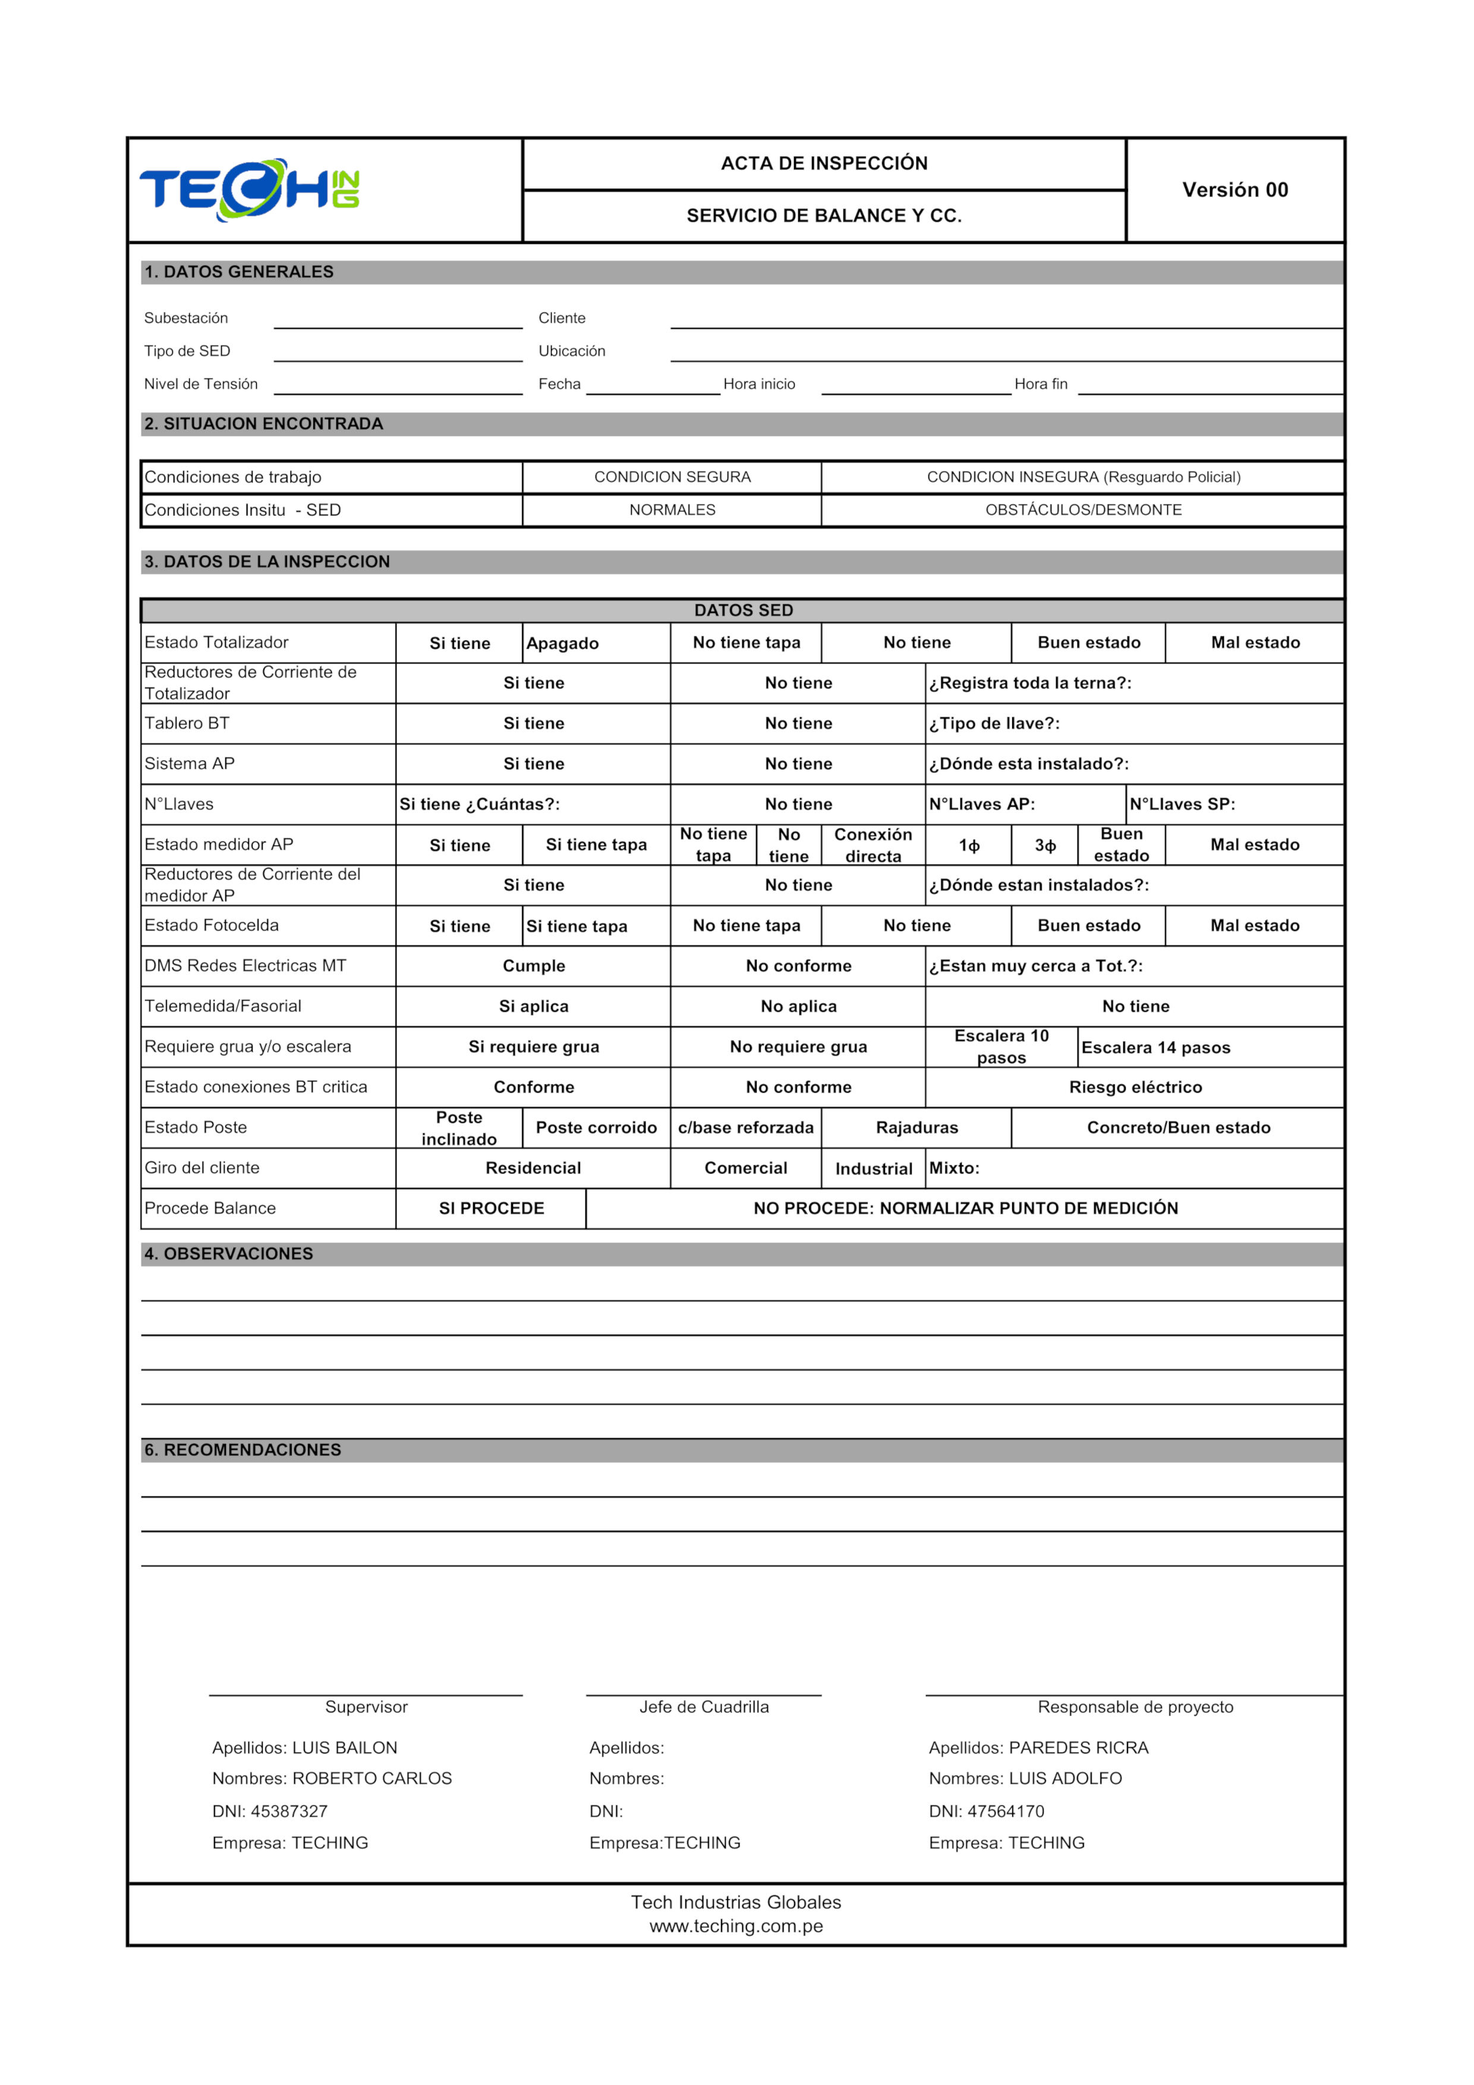
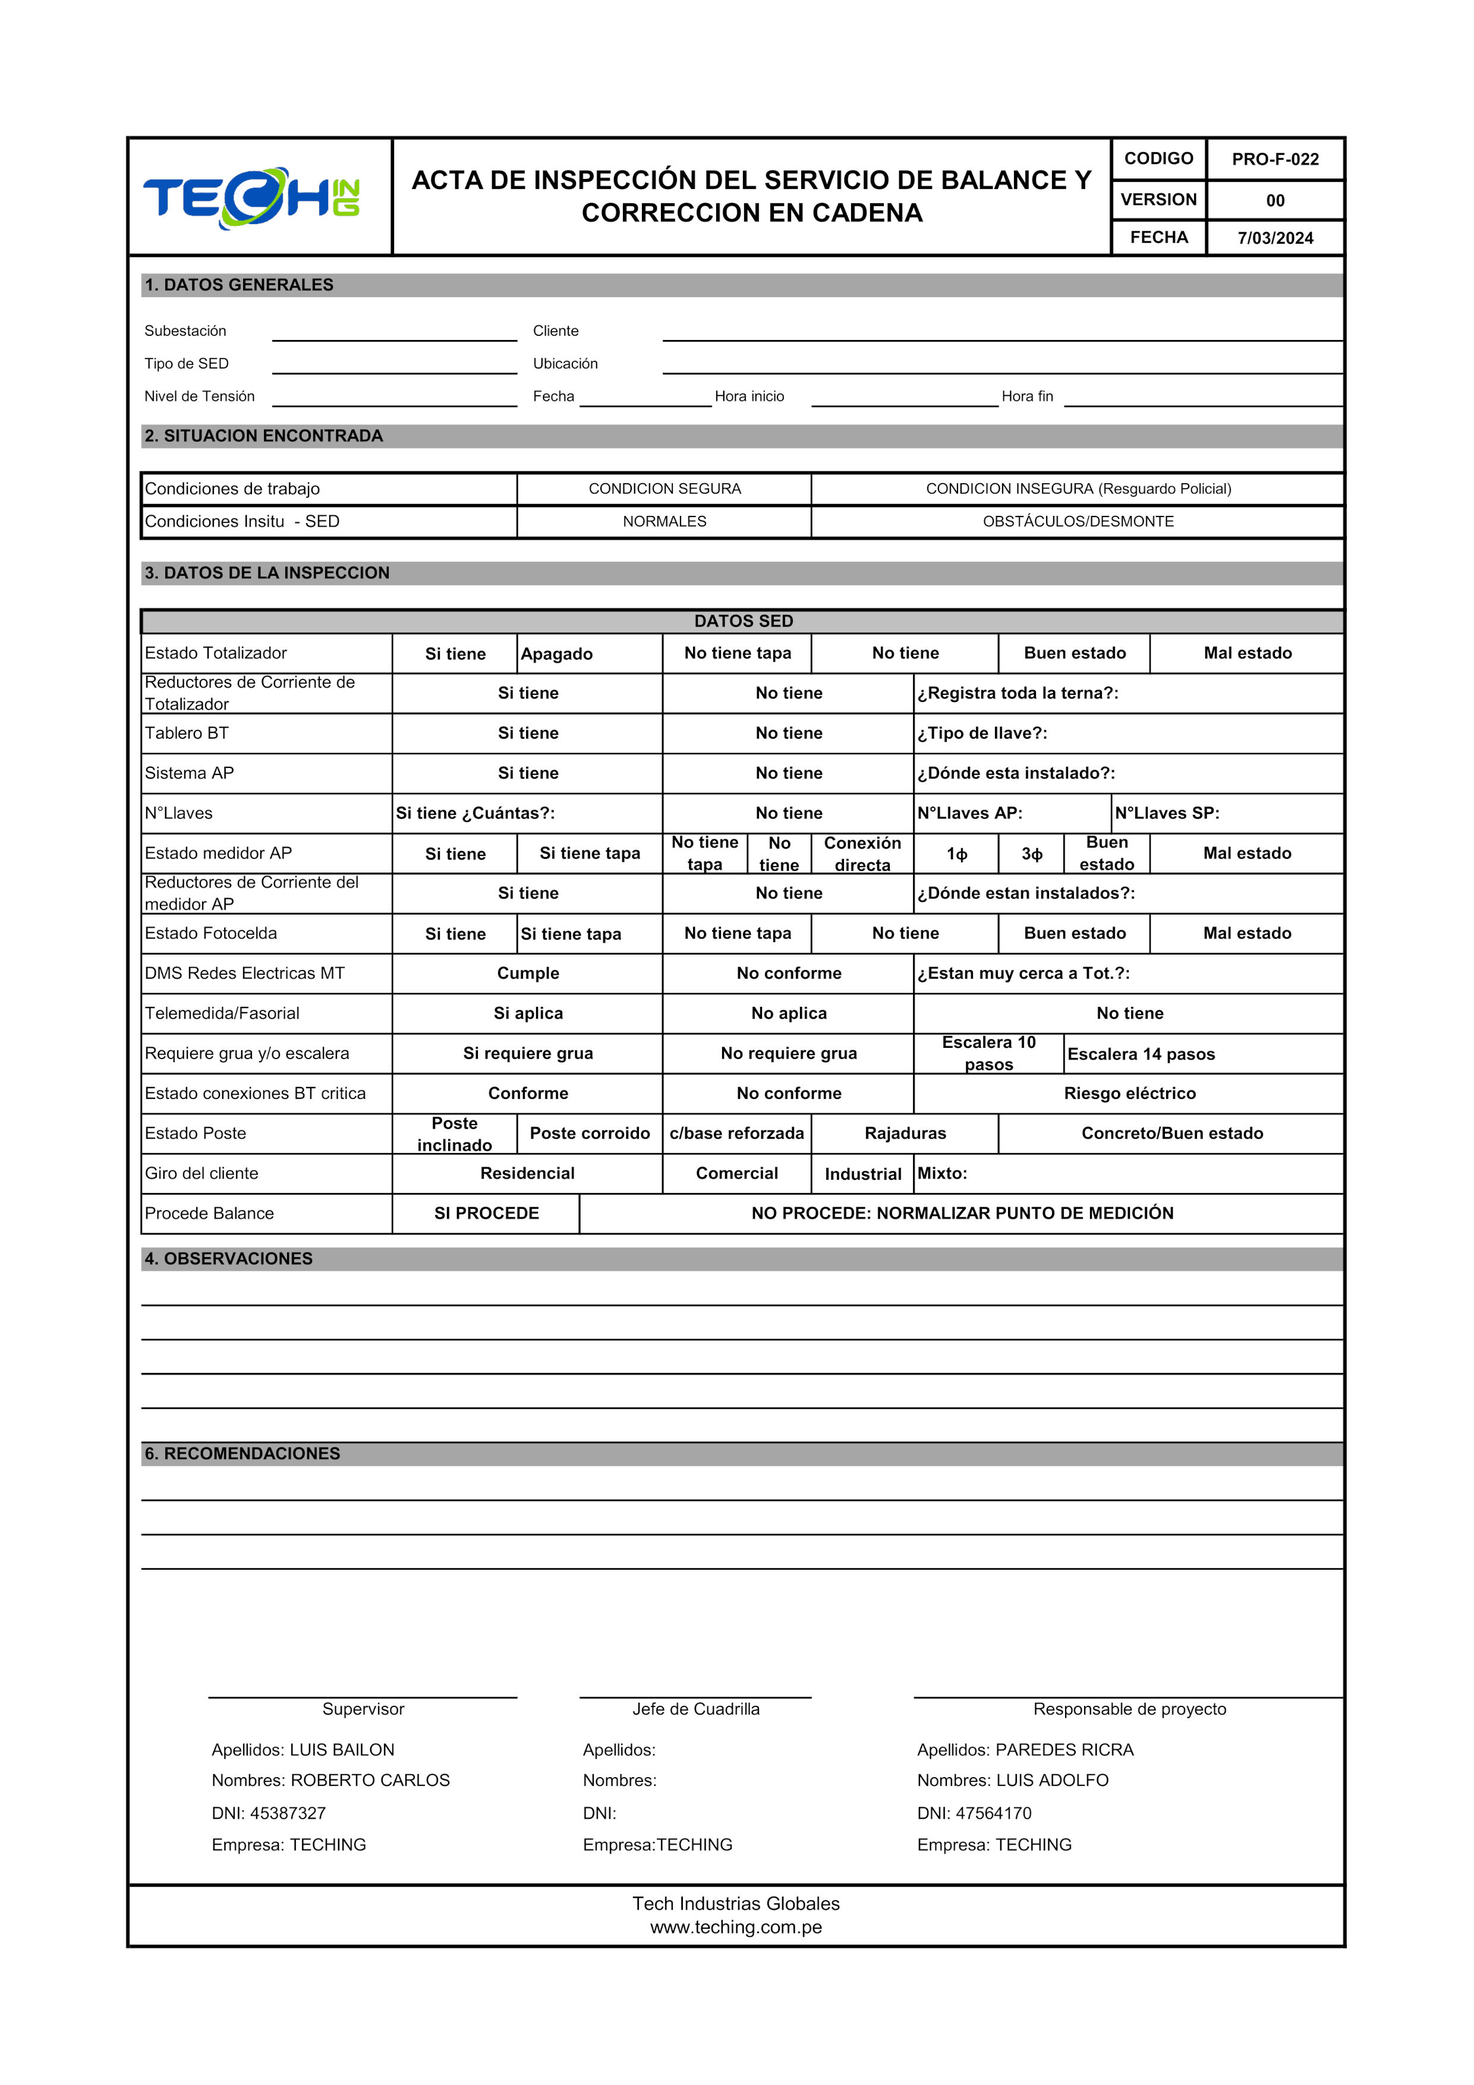
aniadiendo nuevo fondo como formato para acta de inspeccion y corrigiendo coordenadas

diff --git a/scripts/functionsActaInspeccions.js b/scripts/functionsActaInspeccions.js
@@ -113,11 +113,11 @@ btnGenerar.addEventListener("click", async function generarPDF(e) {
       hora_final,
     ];
 
-    let col1X = 40;
-    let col2X = 98;
-    let datosX = 90;
-    let datosY = 46.5;
-    let datosYc2 = 46.5;
+    let col1X = 39;
+    let col2X = 97;
+    let datosX = 89;
+    let datosY = 47.5;
+    let datosYc2 = 47.5;
     let cont = 1;
 
     datosGenerales.forEach((e) => {
@@ -138,10 +138,10 @@ btnGenerar.addEventListener("click", async function generarPDF(e) {
         }
         cont += 1;
       } else {
-        datosY = 55.7;
+        datosY = 56.7;
         if (e != "") {
           doc.text(e, datosX, datosY);
-          datosX += 38;
+          datosX += 37;
         } else {
           eval = false;
         }
@@ -163,9 +163,9 @@ btnGenerar.addEventListener("click", async function generarPDF(e) {
     opcionesSituacion1.forEach((e) => {
       if (e.checked) {
         if (e.value == 1) {
-          doc.text("X", 81, 69.4);
+          doc.text("X", 81, 70.4);
         } else {
-          doc.text("X", 126, 69.4);
+          doc.text("X", 126, 70.4);
         }
       }
     });
@@ -176,9 +176,9 @@ btnGenerar.addEventListener("click", async function generarPDF(e) {
     opcionesSituacion2.forEach((e) => {
       if (e.checked) {
         if (e.value == 1) {
-          doc.text("X", 81, 74.2);
+          doc.text("X", 81, 75.2);
         } else {
-          doc.text("X", 126, 74.2);
+          doc.text("X", 126, 75.2);
         }
       }
     });
@@ -207,32 +207,32 @@ btnGenerar.addEventListener("click", async function generarPDF(e) {
           */
           case 1:
             if (i.value == 1) {
-              doc.text("X", 59, 92.5);
+              doc.text("X", 58, 93.8);
             } else if (i.value == 2) {
-              doc.text("X", 88, 92.5);
+              doc.text("X", 87, 93.8);
             } else if (i.value == 3) {
-              doc.text("X", 96.5, 92.5);
+              doc.text("X", 95.5, 93.8);
             } else if (i.value == 4) {
-              doc.text("X", 124, 92.5);
+              doc.text("X", 122, 93.8);
             } else if (i.value == 5) {
-              doc.text("X", 145.4, 92.5);
+              doc.text("X", 144, 93.8);
             } else {
-              doc.text("X", 170, 92.5);
+              doc.text("X", 169, 93.8);
             }
             break;
           case 2:
             if (i.value == 1) {
-              doc.text("X", 68, 98.2);
+              doc.text("X", 67, 99.2);
             } else if (i.value == 2) {
-              doc.text("X", 106, 98.2);
+              doc.text("X", 105, 99.2);
             } else {
               detalle = document.getElementById("txtcondicion2").value;
               if (detalle != "") {
                 doc.setFontSize(5)
                 if(detalle.length>10){
-                  doc.text(detalle, 162, 96.7, { maxWidth: 25, align: "justify", lineHeightFactor: 0.8});
+                  doc.text(detalle, 160, 97.7, { maxWidth: 28, align: "justify", lineHeightFactor: 0.8});
                 }else{
-                  doc.text(detalle, 163.5, 98.2)
+                  doc.text(detalle, 161.5, 99.2)
                 }
                 doc.setFontSize(6.5)
               } else {
@@ -245,17 +245,17 @@ btnGenerar.addEventListener("click", async function generarPDF(e) {
             break;
           case 3:
             if (i.value == 1) {
-              doc.text("X", 68, 104);
+              doc.text("X", 67, 105.5);
             } else if (i.value == 2) {
-              doc.text("X", 106, 104);
+              doc.text("X", 104, 105.5);
             } else {
               detalle = document.getElementById("txtcondicion3").value;
               if (detalle != "") {
                 doc.setFontSize(5)
                 if(detalle.length>10){
-                  doc.text(detalle, 152, 102.5, { maxWidth: 30, align: "justify", lineHeightFactor: 0.8})
+                  doc.text(detalle, 150.5, 103.5, { maxWidth: 38, align: "justify", lineHeightFactor: 0.8})
                 }else{
-                  doc.text(detalle, 152, 104)
+                  doc.text(detalle, 150.5, 104.5)
                 }
                 doc.setFontSize(6.5)
               } else {
@@ -266,17 +266,17 @@ btnGenerar.addEventListener("click", async function generarPDF(e) {
             break;
           case 4:
             if (i.value == 1) {
-              doc.text("X", 68, 109.8);
+              doc.text("X", 67, 111);
             } else if (i.value == 2) {
-              doc.text("X", 106, 109.8);
+              doc.text("X", 105, 111);
             } else {
               detalle = document.getElementById("txtcondicion4").value;
               if (detalle != "") {
                 doc.setFontSize(5)
                 if(detalle.length>10){
-                  doc.text(detalle, 162, 108.3, { maxWidth: 30, align: "justify", lineHeightFactor: 0.8})
+                  doc.text(detalle, 160, 109, { maxWidth: 28, align: "justify", lineHeightFactor: 0.8})
                 }else{
-                  doc.text(detalle, 162, 109.8)
+                  doc.text(detalle, 160, 110.5)
                 }
                 doc.setFontSize(6.5)
               } else {
@@ -290,7 +290,7 @@ btnGenerar.addEventListener("click", async function generarPDF(e) {
               detalle = document.getElementById("txtcondicion51").value;
               if (detalle != "") {
                 doc.setFontSize(5)
-                doc.text(detalle, 82, 115.6);
+                doc.text(detalle, 80, 116.5);
                 doc.setFontSize(6.5)
               } else {
                 alert(
@@ -299,12 +299,12 @@ btnGenerar.addEventListener("click", async function generarPDF(e) {
                 eval = false;
               }
             } else if (i.value == 2) {
-              doc.text("X", 106, 115.6);
+              doc.text("X", 104, 116.5);
             } else if (i.value == 3) {
               detalle = document.getElementById("txtcondicion52").value;
               if (detalle != "") {
                 doc.setFontSize(5)
-                doc.text(detalle, 149, 115.6);
+                doc.text(detalle, 147, 116.5);
                 doc.setFontSize(6.5)
               } else {
                 alert(
@@ -316,7 +316,7 @@ btnGenerar.addEventListener("click", async function generarPDF(e) {
               detalle = document.getElementById("txtcondicion53").value;
               if (detalle != "") {
                 doc.setFontSize(5)
-                doc.text(detalle, 176.5, 115.6);
+                doc.text(detalle, 175, 116.5);
                 doc.setFontSize(6.5)
               } else {
                 alert(
@@ -327,42 +327,42 @@ btnGenerar.addEventListener("click", async function generarPDF(e) {
             }
 
             break;
+            //Si se presenta un caso6, entonces se colocarán únicamente las marcas de X
           case 6:
             if (i.value == 1) {
-              doc.text("X", 58, 121.4);
+              doc.text("X", 58, 122.5);
             } else if (i.value == 2) {
-              doc.text("X", 75.4, 121.4);
+              doc.text("X", 75, 122.5);
             } else if (i.value == 3) {
-              doc.text("X", 101.4, 121.4);
+              doc.text("X", 96.5, 123.4);
             } else if (i.value == 4) {
-              doc.text("X", 111.4, 121.4);
+              doc.text("X", 108, 122.5);
             } else if (i.value == 5) {
-              doc.text("X", 118, 121.4);
+              doc.text("X", 117, 123);
             } else if (i.value == 6) {
-              doc.text("X", 134, 121.4);
+              doc.text("X", 132, 123);
             } else if (i.value == 7) {
-              doc.text("X", 145.4, 121.4);
+              doc.text("X", 144, 123);
             } else if (i.value == 8) {
-              doc.text("X", 154.5, 121.4);
+              doc.text("X", 152.3, 123);
             } else if (i.value == 9) {
-              doc.text("X", 168, 121.4);
+              doc.text("X", 168, 123);
             }
             break;
           case 7:
             if(i.value==1){
-                doc.text("X", 68, 127.2)
+                doc.text("X", 68, 128)
             }else if(i.value==2){
-                doc.text("X", 106, 127.2)
+                doc.text("X", 104, 128)
             }else{
                 detalle = document.getElementById("txtcondicion7").value
                 if(detalle!=""){
                   doc.setFontSize(5)
                   if(detalle.length>10){
-                    doc.text(detalle, 165, 125.9, { maxWidth: 25, align: "justify", lineHeightFactor: 0.8})
+                    doc.text(detalle, 163, 126.4, { maxWidth: 25, align: "justify", lineHeightFactor: 0.8})
                   }else{
-                    doc.text(detalle, 165, 127.2)
+                    doc.text(detalle, 163, 128)
                   }
-
                   doc.setFontSize(6.5)
                 }else{
                     alert("La casilla 'Reductores de corriente del medidor AP debe contener información")
@@ -372,32 +372,32 @@ btnGenerar.addEventListener("click", async function generarPDF(e) {
             break;
           case 8:
             if (i.value == 1) {
-                doc.text("X", 58, 133);
+                doc.text("X", 58, 134);
               } else if (i.value == 2) {
-                doc.text("X", 92, 133);
+                doc.text("X", 90, 134);
               } else if (i.value == 3) {
-                doc.text("X", 96.4, 133);
+                doc.text("X", 95.5, 134);
               } else if (i.value == 4) {
-                doc.text("X", 120, 133);
+                doc.text("X", 120, 134);
               } else if (i.value == 5) {
-                doc.text("X", 145.4, 133);
+                doc.text("X", 143.5, 134);
               } else {
-                doc.text("X", 168, 133);
+                doc.text("X", 168, 134);
               }
               break;
           case 9:
             if(i.value == 1){
-                doc.text("X", 68, 138.8)
+                doc.text("X", 68, 139.5)
             }else if(i.value == 2){
-                doc.text("X", 104, 138.8)
+                doc.text("X", 103, 139.5)
             }else{
                 detalle = document.getElementById("txtcondicion9").value
                 if(detalle!=""){
                   doc.setFontSize(5)
                   if(detalle.length>10){
-                    doc.text(detalle, 163.5, 137, { maxWidth: 25, align: "justify", lineHeightFactor: 0.8})
+                    doc.text(detalle, 161, 137.8, { maxWidth: 28, align: "justify", lineHeightFactor: 0.8})
                   }else{
-                    doc.text(detalle, 163.5, 138.5)
+                    doc.text(detalle, 161, 139)
                   }
                   doc.setFontSize(6.5)
                 }else{
@@ -408,22 +408,22 @@ btnGenerar.addEventListener("click", async function generarPDF(e) {
             break;
           case 10:
             if(i.value==1){
-                doc.text("X", 68, 144.6)
+                doc.text("X", 68, 145)
             }else if(i.value==2){
-                doc.text("X", 106, 144.6)
+                doc.text("X", 105, 145)
             }else{
-                doc.text("X", 153, 144.6)
+                doc.text("X", 153, 145)
             }
             break;
           case 11:
             if(i.value==1){
-                doc.text("X", 64, 150.4)
+                doc.text("X", 63, 151)
             }else if(i.value==2){
-                doc.text("X", 101, 150.4)
+                doc.text("X", 100, 151)
             }else if(i.value==3){
-                doc.text("X", 134, 150.4)
+                doc.text("X", 131, 151)
             }else{
-                doc.text("X", 177, 150.4)
+                doc.text("X", 175, 151)
             }
             break;
           case 12:
@@ -437,32 +437,32 @@ btnGenerar.addEventListener("click", async function generarPDF(e) {
             break;
           case 13:
             if(i.value==1){
-                doc.text("X", 58, 161.2)
+                doc.text("X", 58, 161.3)
             }else if(i.value==2){
-                doc.text("X", 82.5, 161.2)
+                doc.text("X", 82.2, 161)
             }else if(i.value==3){
-                doc.text("X", 107, 161.2)
+                doc.text("X", 103.4, 161)
             }else if(i.value==4){
-                doc.text("X", 122, 161.2)
+                doc.text("X", 120, 161.3)
             }else{
-                doc.text("X", 150, 161.2)
+                doc.text("X", 150, 161.3)
             }
             break;
           case 14:
             if(i.value==1){
-                doc.text("X", 65, 167)
+                doc.text("X", 65, 168)
             }else if(i.value==2){
-                doc.text("X", 98, 167)
+                doc.text("X", 97.5, 168)
             }else if(i.value==3){
-                doc.text("X", 117.5, 167)
+                doc.text("X", 116.2, 168)
             }else{
                 detalle = document.getElementById("txtcondicion14").value
                 if(detalle!=""){
                   doc.setFontSize(5)
                   if(detalle.length>10){
-                    doc.text(detalle, 140, 165.5, { maxWidth: 48, align: "justify", lineHeightFactor: 0.8})
+                    doc.text(detalle, 138.5, 166.5, { maxWidth: 48, align: "justify", lineHeightFactor: 0.8})
                   }else{
-                    doc.text(detalle, 140, 167)
+                    doc.text(detalle, 138.5, 168)
                   }
                   doc.setFontSize(6.5)
                 }else{
@@ -482,7 +482,7 @@ btnGenerar.addEventListener("click", async function generarPDF(e) {
         if(a.value==1){
           doc.text("X", 59, 173.5)
         }else{
-          doc.text("X", 98, 173.)
+          doc.text("X", 98, 173.5)
         }
       }
     })
@@ -537,13 +537,13 @@ btnGenerar.addEventListener("click", async function generarPDF(e) {
     let firmaSupervisor = "../recursos/firmas/RobertoLuisBailon.png";
     let firmaResponsable = "../recursos/firmas/LuisAdolfoParedesRicra.png";
 
-    doc.text(apellidos, 95.5, 250);
-    doc.text(nombres, 95.5, 254.6);
-    doc.text(dni, 89.5, 258.8);
-    doc.addImage(firma, "PNG", 89, 229, 30, 10);
+    doc.text(apellidos, 95.1, 250);
+    doc.text(nombres, 95.1, 254.6);
+    doc.text(dni, 89.1, 258.8);
+    doc.addImage(firma, "PNG", 88, 230, 30, 10);
     //aquí también se colocará la firma del supervisor y responsable del proyecto
-    doc.addImage(firmaSupervisor, "PNG", 40, 229, 30, 10);
-    doc.addImage(firmaResponsable, "PNG", 149, 229, 30, 10);
+    doc.addImage(firmaSupervisor, "PNG", 39, 230, 30, 10);
+    doc.addImage(firmaResponsable, "PNG", 148, 230, 30, 10);
   }
 
   //ejecutar funciones en orden de creacion
@@ -555,10 +555,10 @@ btnGenerar.addEventListener("click", async function generarPDF(e) {
   evaluarJefeCuadrilla()
   
   if(eval) {
-    /*var blob = doc.output("blob");
-    window.open(URL.createObjectURL(blob));*/
+    var blob = doc.output("blob");
+    window.open(URL.createObjectURL(blob));
 
-    fechaActual = fechaActual.replace(/\//g, "_")
+    /*fechaActual = fechaActual.replace(/\//g, "_")
         const nombreDocumento = `ACTA_DE_INSPECCION_${fechaActual}.pdf`
         doc.save(nombreDocumento)
         //endodear el resultado del pdf
@@ -579,7 +579,7 @@ btnGenerar.addEventListener("click", async function generarPDF(e) {
             success: function(php_script_response){
                 alert("Archivo generado correctamente")
             }
-        })
+        })*/
   } else {
     alert("Debe completar todos los datos solicitados");
   }
